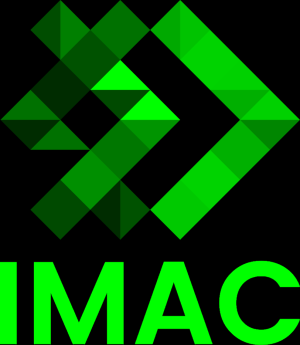
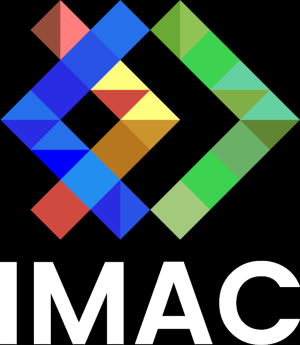
inversement rouge et bleu

diff --git a/src/main.cpp b/src/main.cpp
@@ -4,10 +4,17 @@ int main()
 {
     sil::Image image{"images/logo.png"};
     //Tout en vert
+//     for (glm::vec3& color : image.pixels())
+// {
+//     color.r = 0.f;
+//     color.b=0.f;
+// }
+
+
+//inversement couleur
     for (glm::vec3& color : image.pixels())
-{
-    color.r = 0.f;
-    color.b=0.f;
-}
+    std::swap(color.r, color.b);
+
+
     image.save("output/pouet.png");
 }
